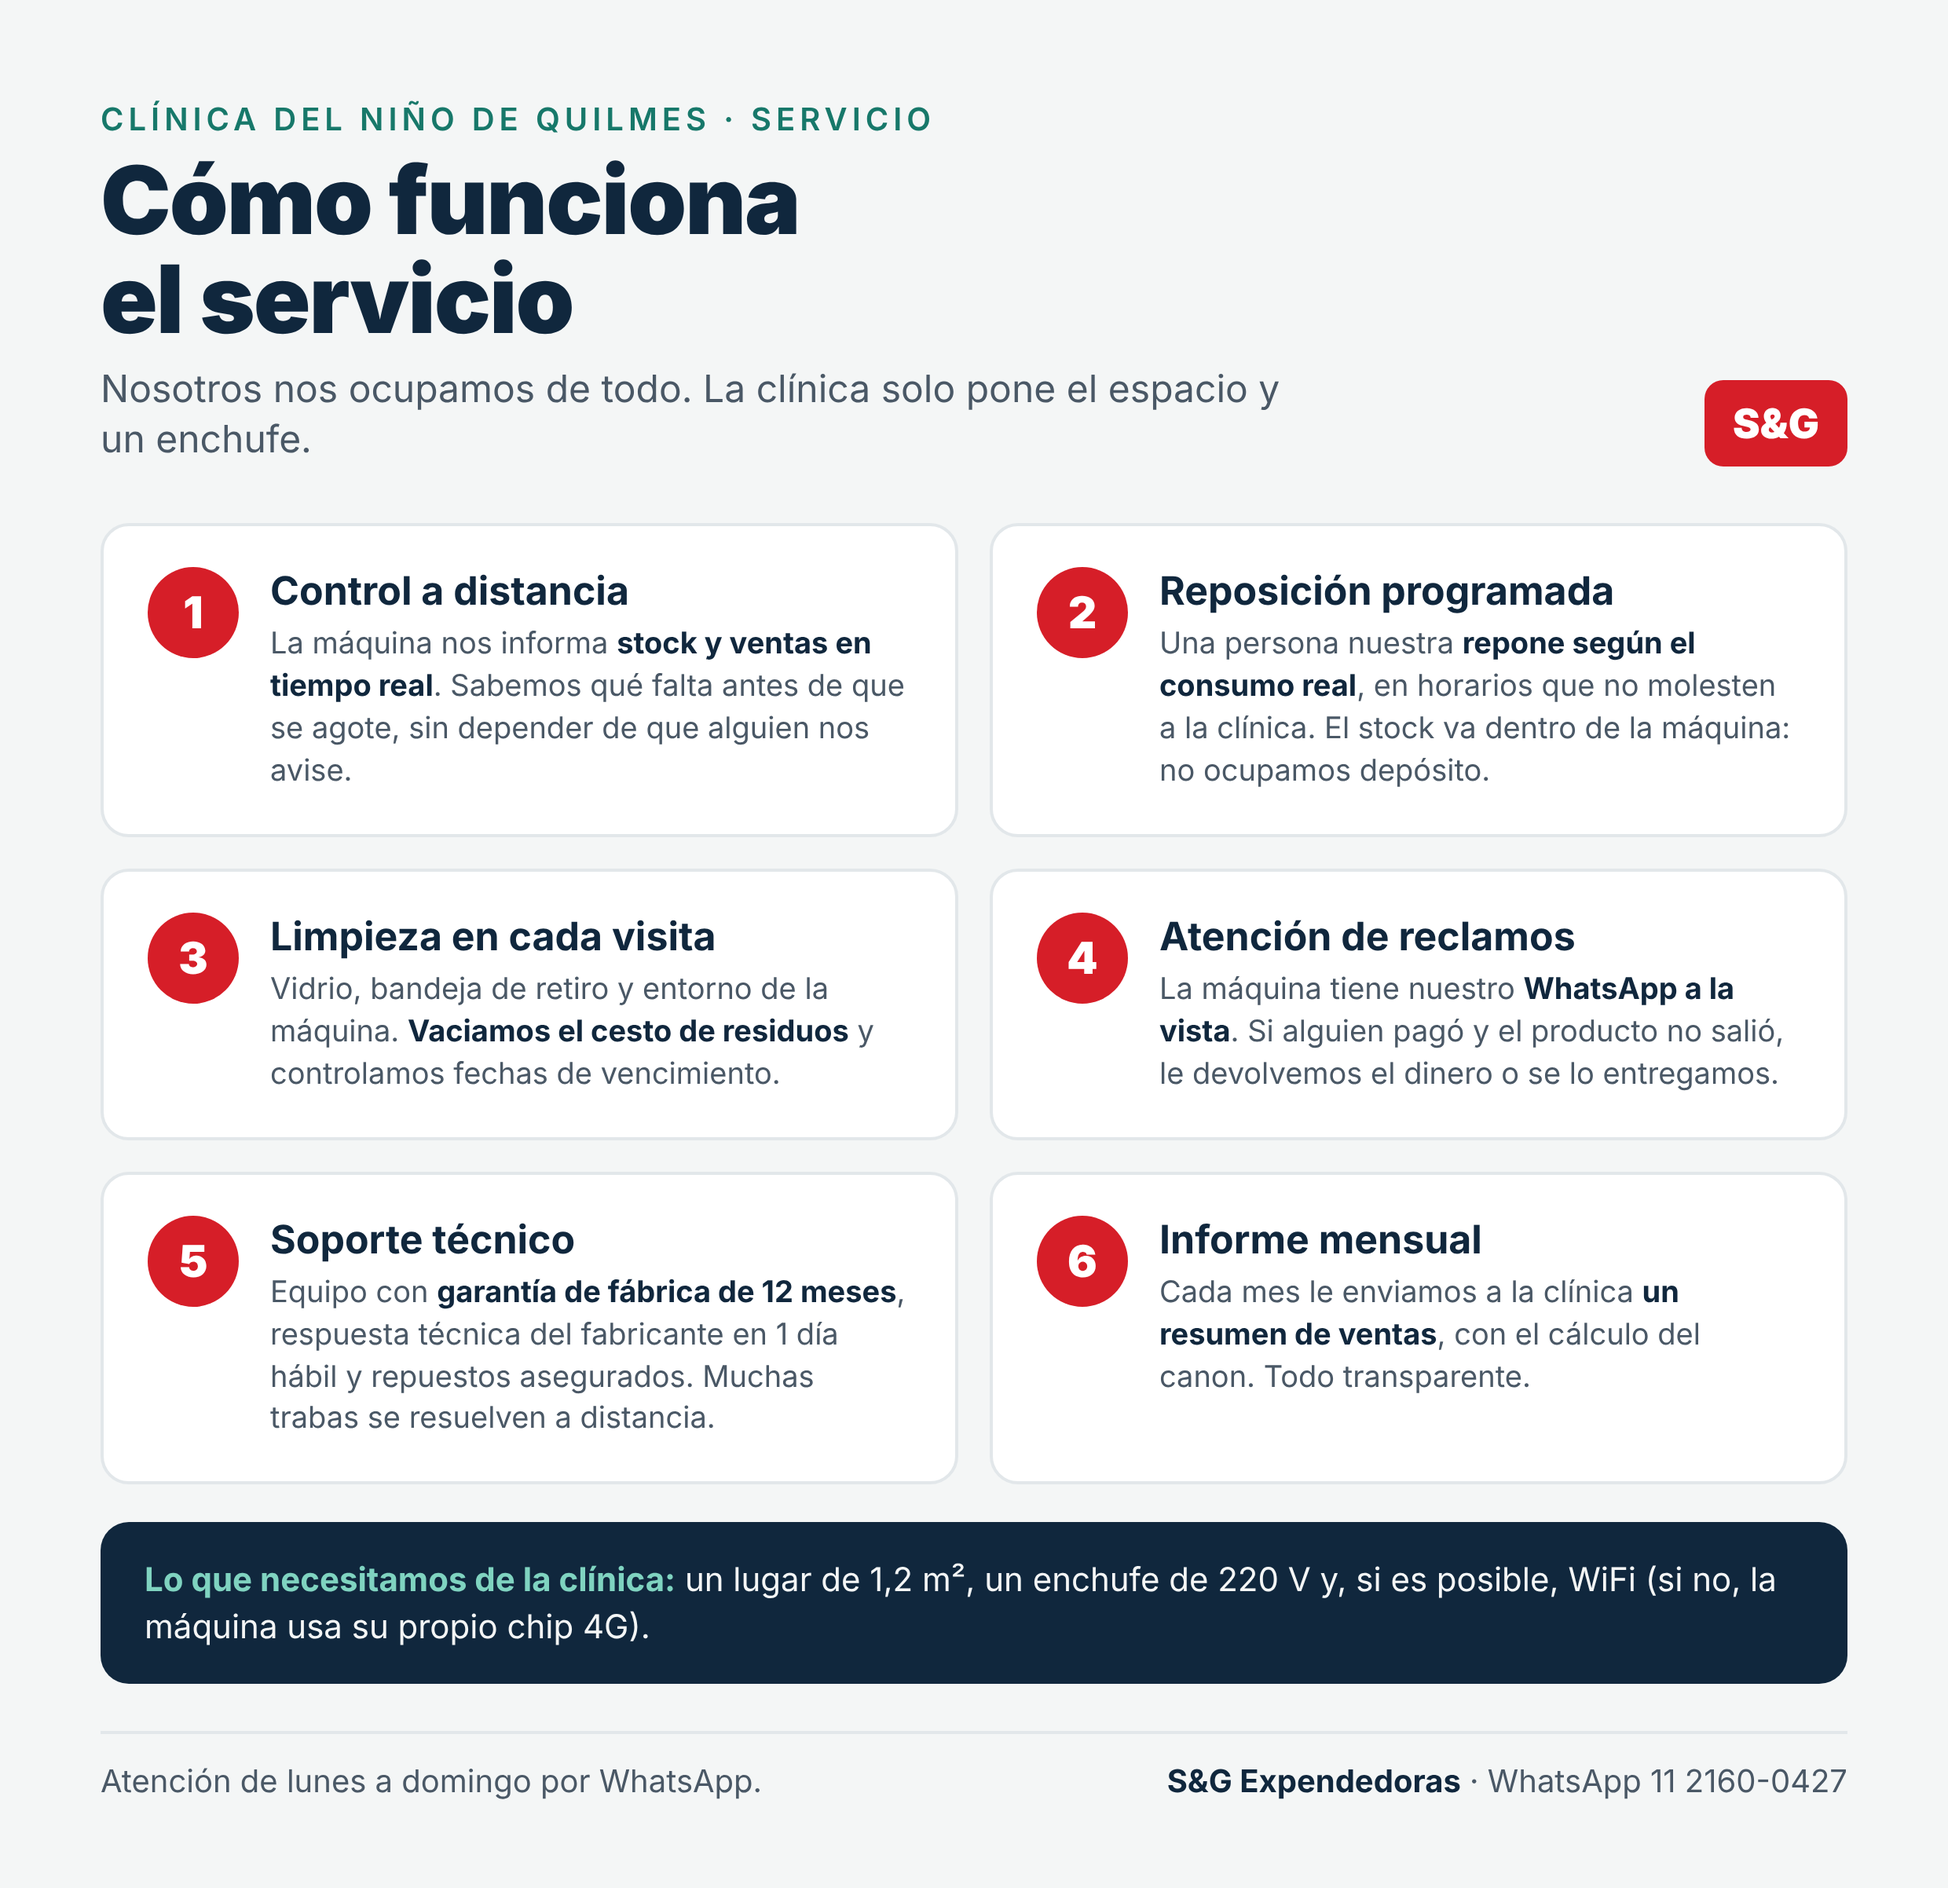
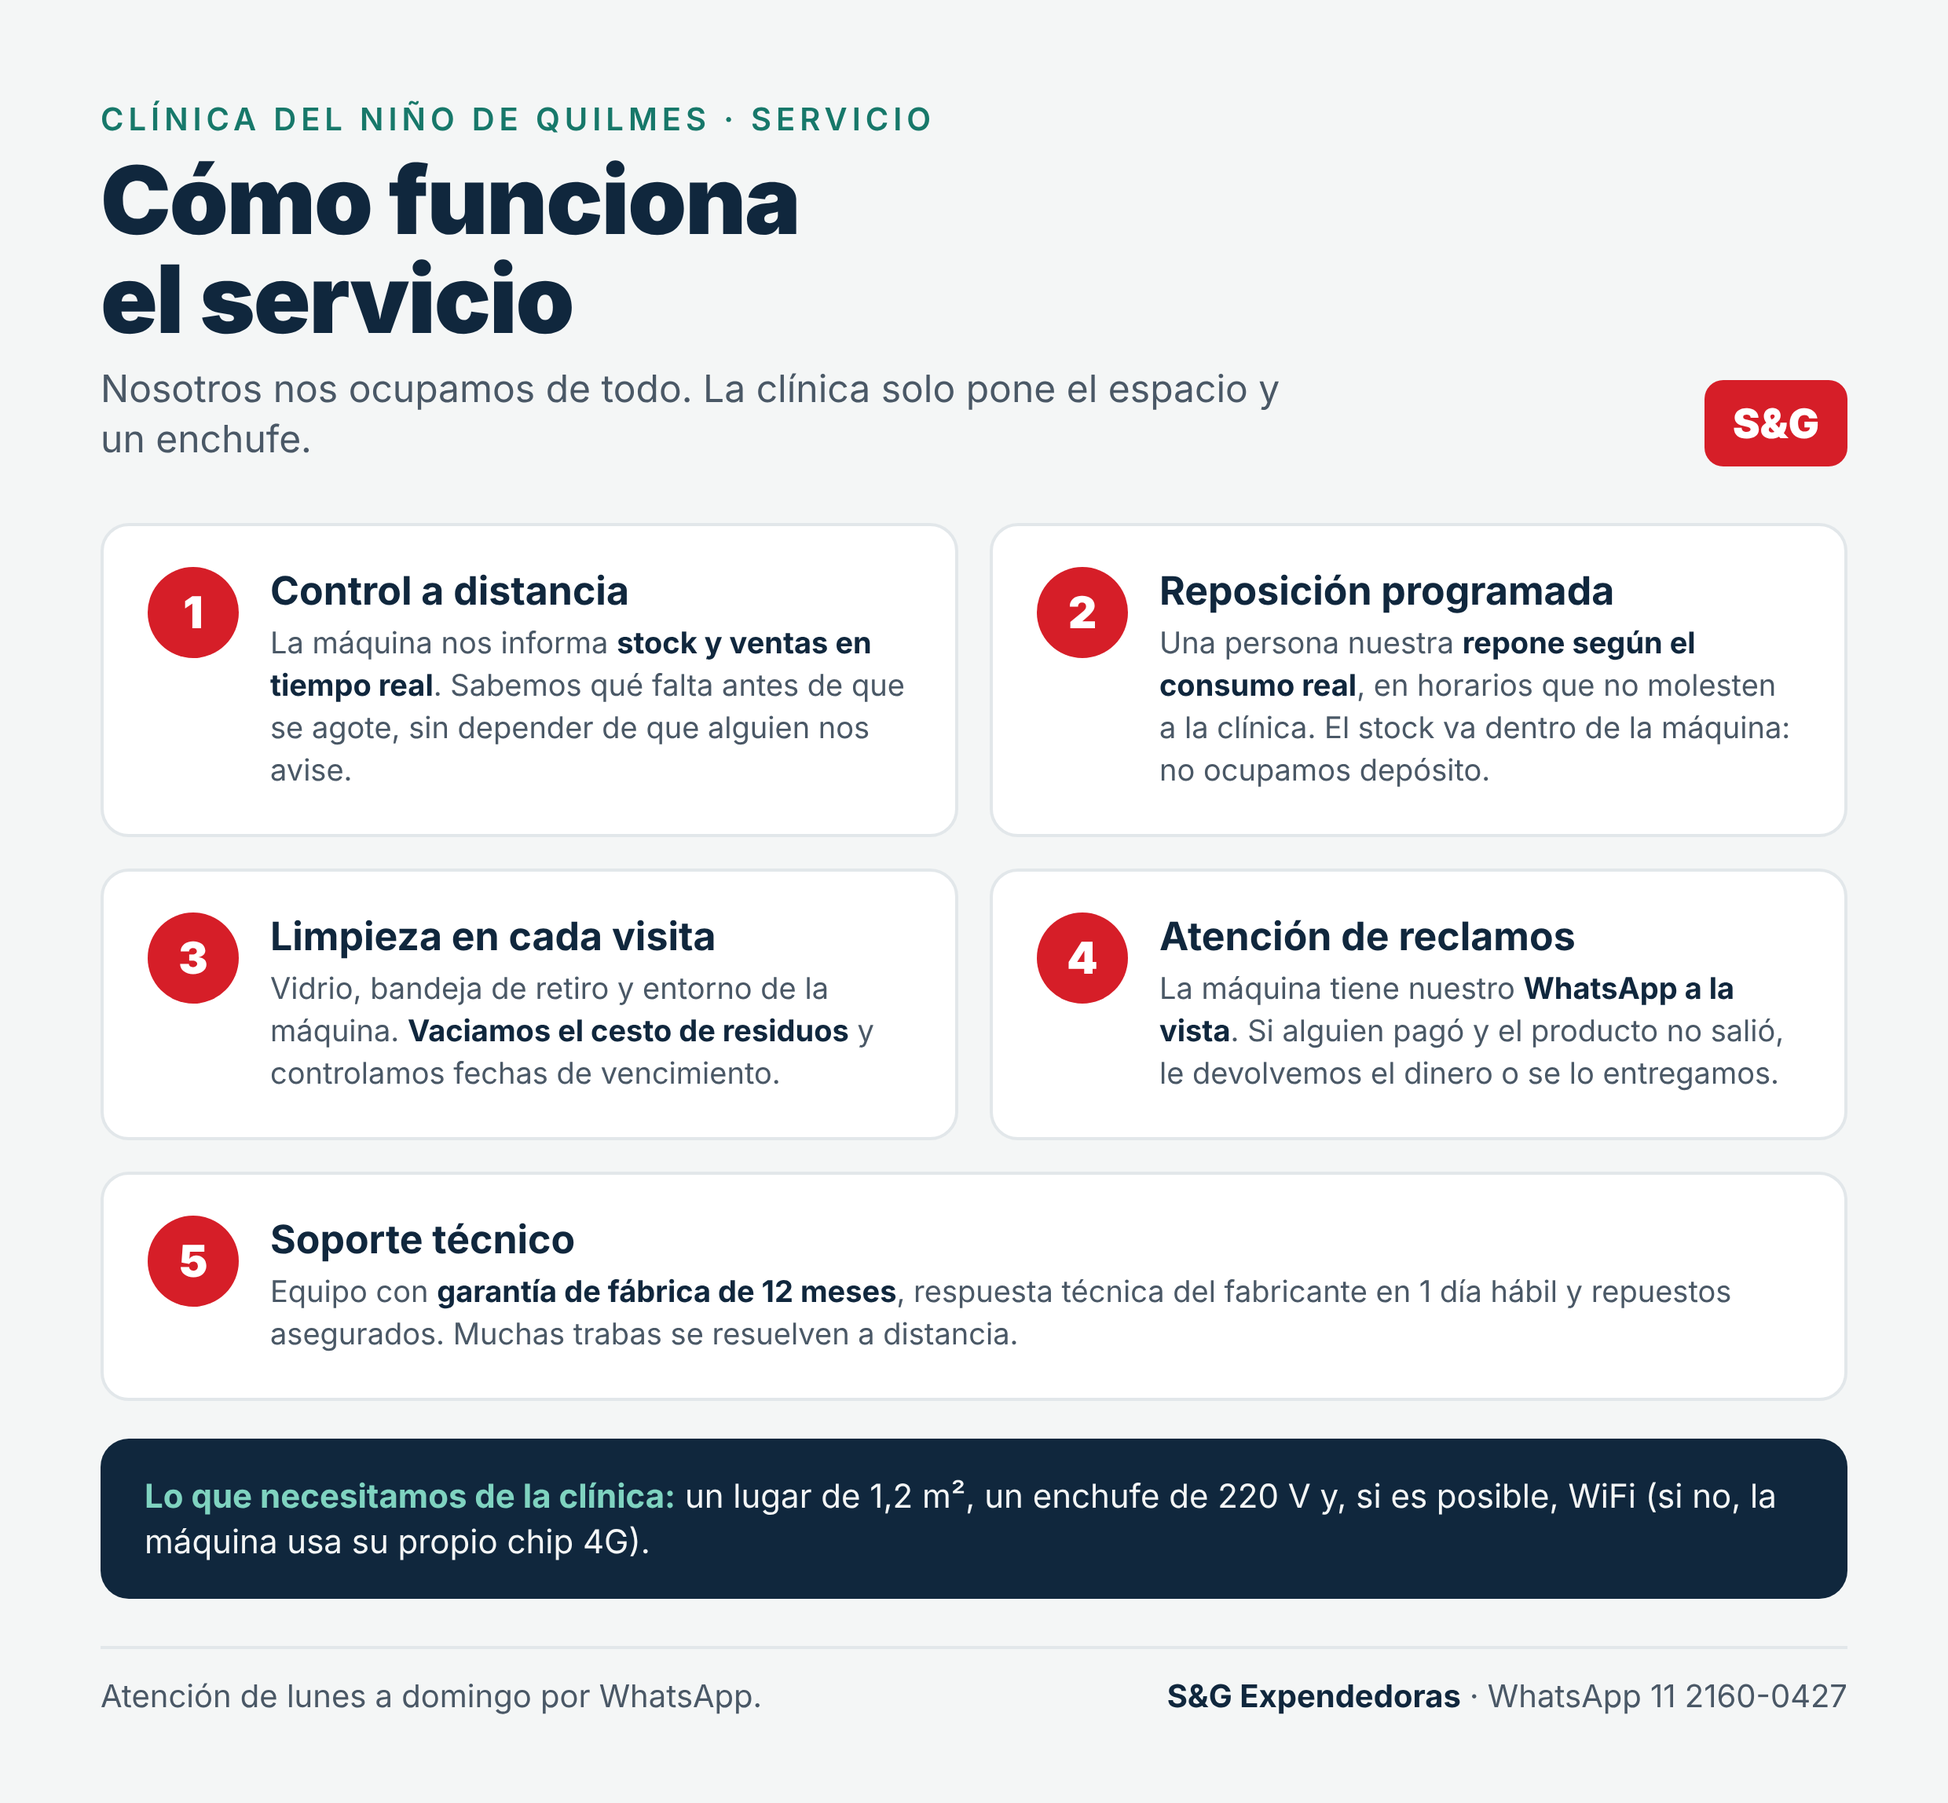
Visita Clínica del Niño: servicio sin informe mensual
Claude-Session: https://claude.ai/code/session_019riW69UisGa26ciLraXE3K

diff --git a/visita-clinica-nino/servicio.html b/visita-clinica-nino/servicio.html
@@ -30,6 +30,7 @@ h1{font-size:60px;font-weight:900;line-height:1.05;letter-spacing:-1px;margin-to
 .q{background:var(--card);border:2px solid var(--line);border-radius:16px;padding:20px 26px;display:grid;grid-template-columns:380px 1fr;gap:24px;align-items:center;margin-top:14px}
 .q h3{font-size:23px;font-weight:700}
 .q p{font-size:19px;line-height:1.42;color:var(--ink)}
+.steps .s:nth-child(5){grid-column:1/-1}
 .band{margin-top:24px;background:var(--navy);color:#F4F6F6;border-radius:18px;padding:22px 28px;font-size:21px;line-height:1.4}
 .band b{color:#7FD3C0}
-</style></head><body><div class="top"><div><p class="eyebrow">CLÍNICA DEL NIÑO DE QUILMES · SERVICIO</p><h1>Cómo funciona<br>el servicio</h1><p class="sub">Nosotros nos ocupamos de todo. La clínica solo pone el espacio y un enchufe.</p></div><div class="brand">S&amp;G</div></div><div class="steps"><div class="s"><div class="n">1</div><div><h3>Control a distancia</h3><p>La máquina nos informa <b>stock y ventas en tiempo real</b>. Sabemos qué falta antes de que se agote, sin depender de que alguien nos avise.</p></div></div><div class="s"><div class="n">2</div><div><h3>Reposición programada</h3><p>Una persona nuestra <b>repone según el consumo real</b>, en horarios que no molesten a la clínica. El stock va dentro de la máquina: no ocupamos depósito.</p></div></div><div class="s"><div class="n">3</div><div><h3>Limpieza en cada visita</h3><p>Vidrio, bandeja de retiro y entorno de la máquina. <b>Vaciamos el cesto de residuos</b> y controlamos fechas de vencimiento.</p></div></div><div class="s"><div class="n">4</div><div><h3>Atención de reclamos</h3><p>La máquina tiene nuestro <b>WhatsApp a la vista</b>. Si alguien pagó y el producto no salió, le devolvemos el dinero o se lo entregamos.</p></div></div><div class="s"><div class="n">5</div><div><h3>Soporte técnico</h3><p>Equipo con <b>garantía de fábrica de 12 meses</b>, respuesta técnica del fabricante en 1 día hábil y repuestos asegurados. Muchas trabas se resuelven a distancia.</p></div></div><div class="s"><div class="n">6</div><div><h3>Informe mensual</h3><p>Cada mes le enviamos a la clínica <b>un resumen de ventas</b>, con el cálculo del canon. Todo transparente.</p></div></div></div><div class="band"><b>Lo que necesitamos de la clínica:</b> un lugar de 1,2 m², un enchufe de 220 V y, si es posible, WiFi (si no, la máquina usa su propio chip 4G).</div><div class="foot"><span>Atención de lunes a domingo por WhatsApp.</span><span><b>S&amp;G Expendedoras</b> · WhatsApp 11 2160-0427</span></div></body></html>
+</style></head><body><div class="top"><div><p class="eyebrow">CLÍNICA DEL NIÑO DE QUILMES · SERVICIO</p><h1>Cómo funciona<br>el servicio</h1><p class="sub">Nosotros nos ocupamos de todo. La clínica solo pone el espacio y un enchufe.</p></div><div class="brand">S&amp;G</div></div><div class="steps"><div class="s"><div class="n">1</div><div><h3>Control a distancia</h3><p>La máquina nos informa <b>stock y ventas en tiempo real</b>. Sabemos qué falta antes de que se agote, sin depender de que alguien nos avise.</p></div></div><div class="s"><div class="n">2</div><div><h3>Reposición programada</h3><p>Una persona nuestra <b>repone según el consumo real</b>, en horarios que no molesten a la clínica. El stock va dentro de la máquina: no ocupamos depósito.</p></div></div><div class="s"><div class="n">3</div><div><h3>Limpieza en cada visita</h3><p>Vidrio, bandeja de retiro y entorno de la máquina. <b>Vaciamos el cesto de residuos</b> y controlamos fechas de vencimiento.</p></div></div><div class="s"><div class="n">4</div><div><h3>Atención de reclamos</h3><p>La máquina tiene nuestro <b>WhatsApp a la vista</b>. Si alguien pagó y el producto no salió, le devolvemos el dinero o se lo entregamos.</p></div></div><div class="s"><div class="n">5</div><div><h3>Soporte técnico</h3><p>Equipo con <b>garantía de fábrica de 12 meses</b>, respuesta técnica del fabricante en 1 día hábil y repuestos asegurados. Muchas trabas se resuelven a distancia.</p></div></div></div><div class="band"><b>Lo que necesitamos de la clínica:</b> un lugar de 1,2 m², un enchufe de 220 V y, si es posible, WiFi (si no, la máquina usa su propio chip 4G).</div><div class="foot"><span>Atención de lunes a domingo por WhatsApp.</span><span><b>S&amp;G Expendedoras</b> · WhatsApp 11 2160-0427</span></div></body></html>
